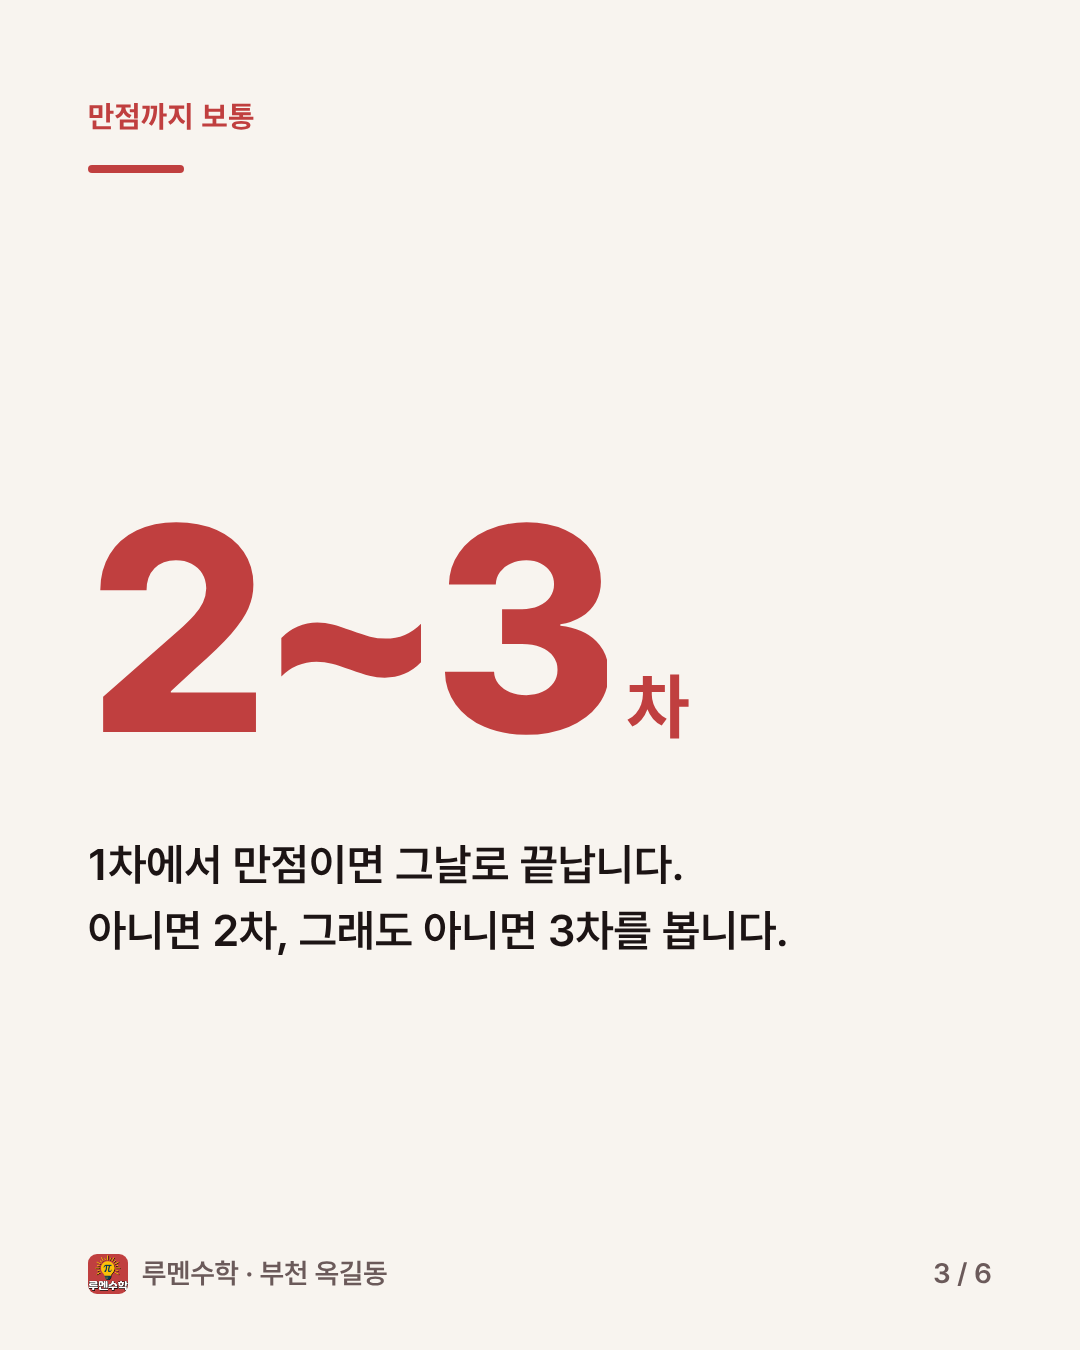
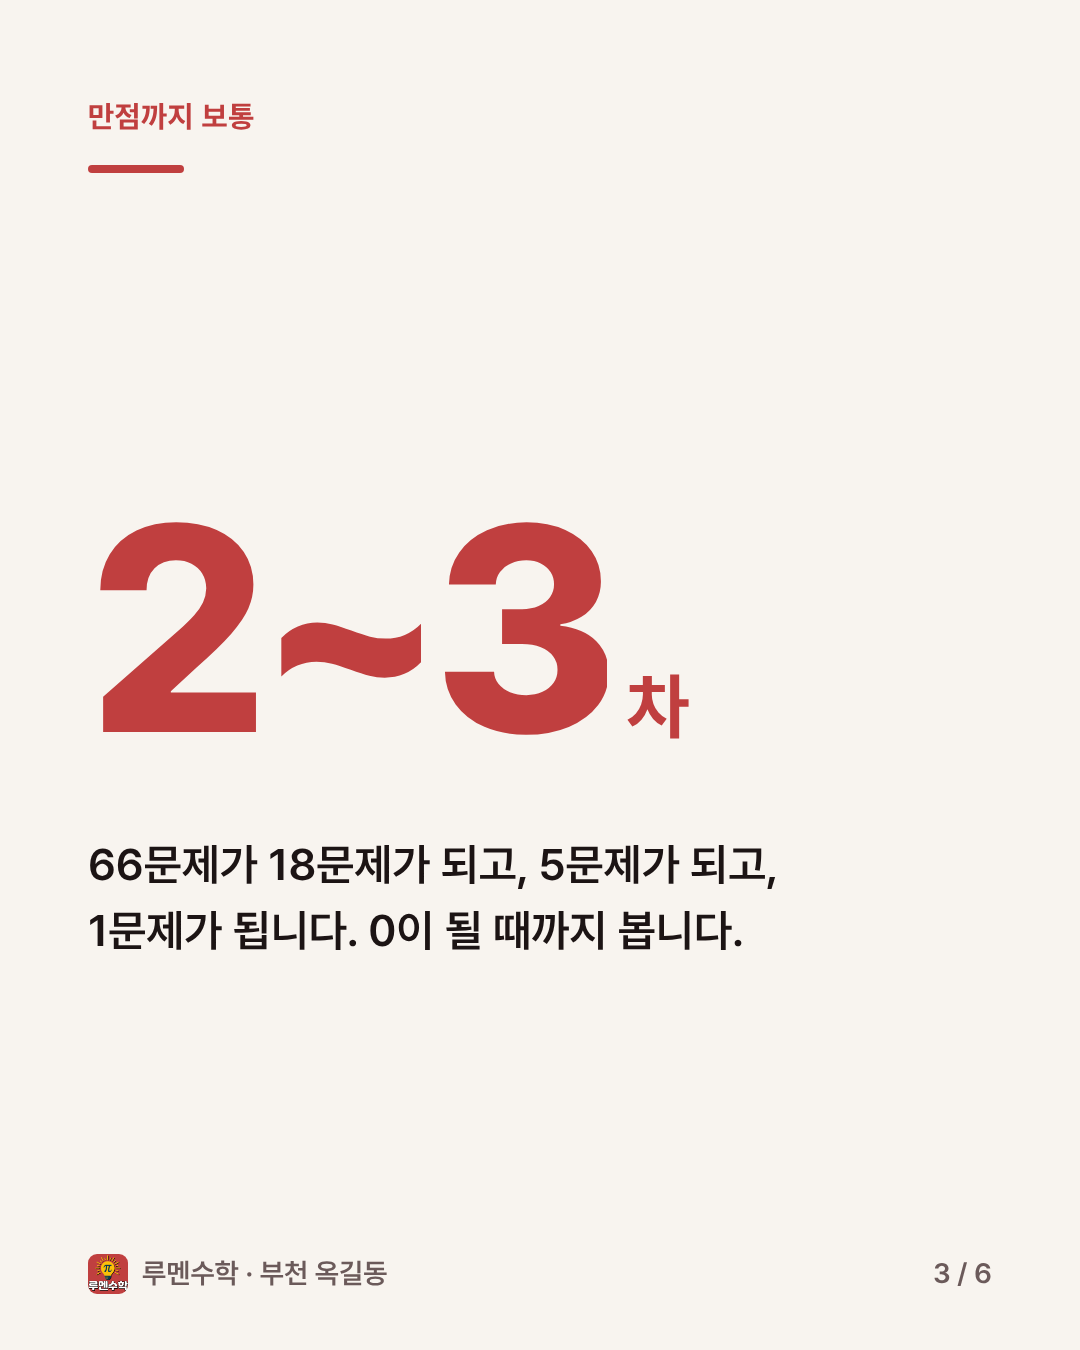
리커버리 글 — 실사진 넣고 「혼자 두지 않는다」 문장 삭제
원장님이 보내주신 시험지 사진을 넣었다. 66문제 → 18 → 5 → 1 로
얇아지는 것이 사진에 그대로 보여서, 「보통 2~3차」보다 이쪽이 훨씬
설명이 된다. 본문과 3번 카드(stat)를 그 숫자로 바꿨다.

⚠ 공개 글이라 시험지에 찍힌 학생 이름을 여섯 군데 가렸다
   (머리글 4곳 · 작성일 줄 · 문항 머리줄). 원본은 저장소에 올리지 않는다.

제가 보탰던 「대신 혼자 두지는 않습니다…」 문장은 원장님 지시로 뺐다.

Claude-Session: https://claude.ai/code/session_01PrXupwdfA18FioDhn8FuNf

Changed region(s): [[0.0611, 0.6222, 0.7333, 0.7156]]

diff --git a/blog/2026-10-31-recovery-test/post.md b/blog/2026-10-31-recovery-test/post.md
@@ -2,7 +2,7 @@
 title: 만점이 나올 때까지 다시 봅니다 — 루멘수학 리커버리 테스트, 부천 옥길동
 date: 2026-10-31
 recruit: false
-photos: 0
+photos: 1
 dated: false
 hashtags: #리커버리수업 #오답관리 #옥길동수학학원 #부천옥길동수학학원 #관리형수학학원 #중등수학 #고등수학 #내신대비 #오답노트 #아하노트 #루멘수학 #부천수학학원 #자기주도학습
 ---
@@ -25,6 +25,10 @@ hashtags: #리커버리수업 #오답관리 #옥길동수학학원 #부천옥길
 만점이 나올 때까지 봅니다
 
 1차에서 만점이 나오면 그날로 끝납니다. 아니면 2차를 봅니다. 그래도 아니면 3차를 봅니다. 보통 2차나 3차에서 만점이 나옵니다.
+
+[실사진 1: 리커버리 테스트지 — 66문제에서 1문제까지]
+
+사진은 그날 한 아이의 시험지입니다. 맨 위가 66문제, 다음이 18문제, 그다음이 5문제, 마지막이 1문제입니다. 틀린 것만 남겨 다시 내다 보니 시험지가 점점 얇아집니다.
 
 틀린 것이 0이 될 때까지 본다고 해서 제로테스트라고 부릅니다.
 
@@ -53,8 +57,6 @@ hashtags: #리커버리수업 #오답관리 #옥길동수학학원 #부천옥길
 솔직히 말씀드리면 이 방식은 느립니다. 제가 설명하면 오 분이면 끝날 것을 아이가 이십 분 동안 찾습니다. 옆에서 보면 답답합니다.
 
 그래도 그렇게 합니다. 오 분짜리 설명은 그 주에 사라지고, 이십 분짜리 찾기는 남기 때문입니다.
-
-대신 혼자 두지는 않습니다. 어느 단원을 펴야 하는지까지는 함께 정합니다. 그 안에서 찾는 일을 아이가 합니다.
 
 [카드 5: 05_compare.png]
 
